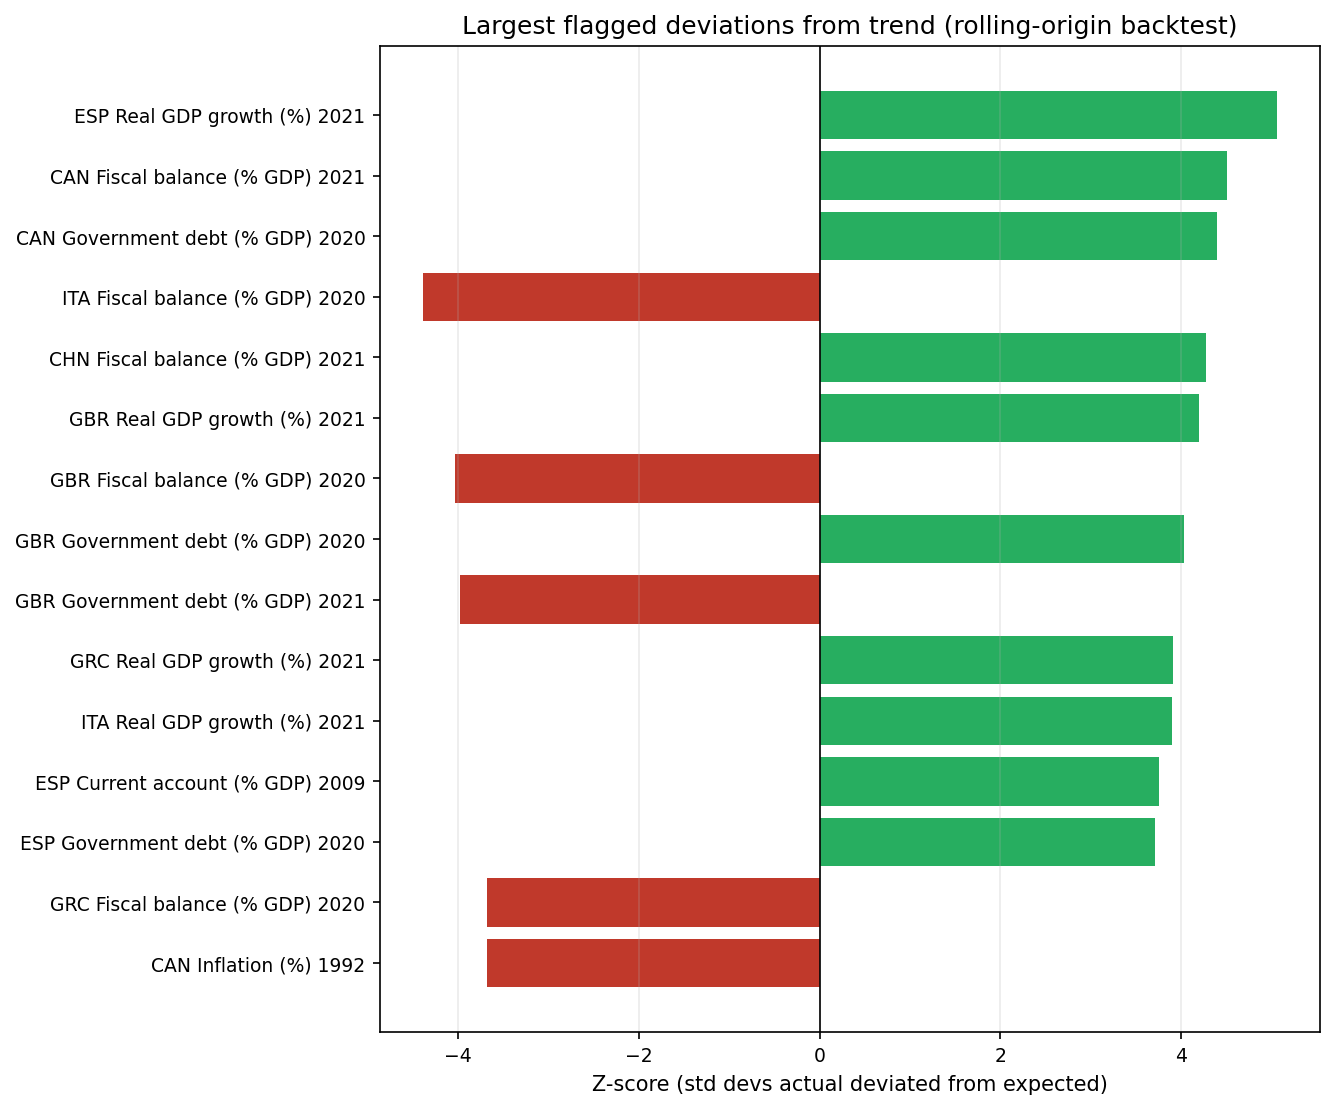
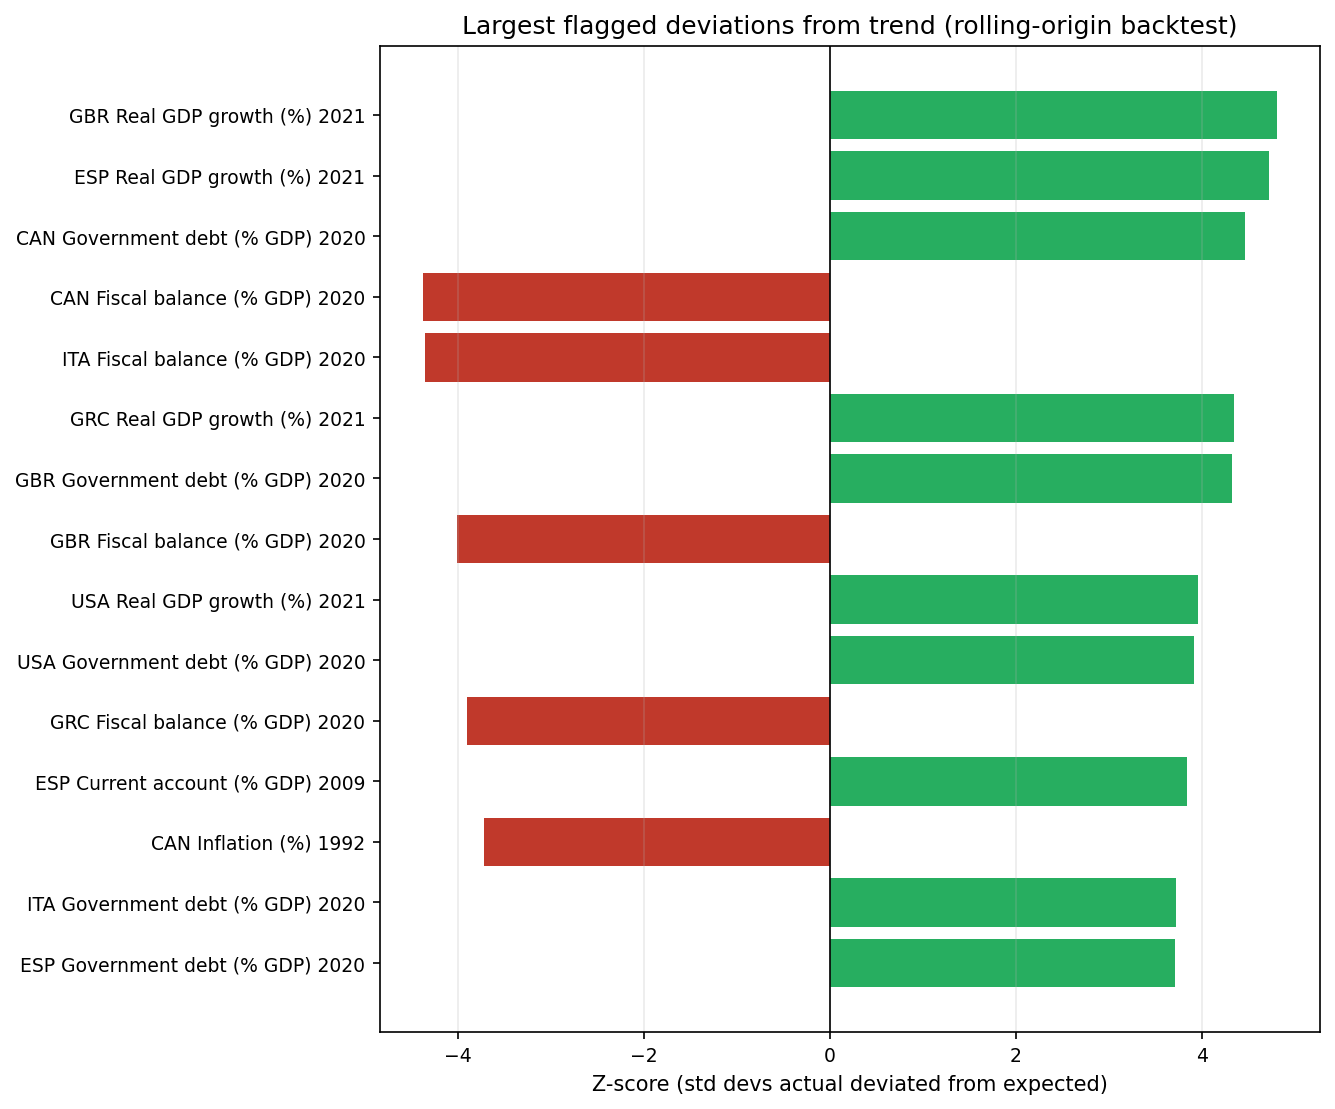
Add data-driven ARIMA order selection via AIC

diff --git a/src/anomaly_detection.py b/src/anomaly_detection.py
@@ -10,6 +10,11 @@ year's value, unchanged) - this answers the question every forecast should be
 able to answer: is the model actually adding value, or would a dead-simple
 guess do just as well?
 
+The ARIMA order is selected once per series (by AIC, via arima_utils.py),
+using only the initial training window - not the full series - so the order
+choice can't "see" the years it's about to be tested against. That avoids
+leaking future information into the backtest.
+
 Note: WEO data blends true historical actuals with the IMF's own forward
 projections, with no flag distinguishing the two. So a "flagged" year means
 "this diverged notably from a simple trend model" - which could reflect a real
@@ -24,6 +29,7 @@ import warnings
 import numpy as np
 import pandas as pd
 from statsmodels.tsa.arima.model import ARIMA
+from arima_utils import select_arima_order
 
 warnings.filterwarnings("ignore")
 
@@ -46,6 +52,11 @@ def one_step_residuals(series: pd.Series) -> pd.DataFrame:
     year t with both ARIMA and a naive (persistence) baseline, record both
     residuals. One row per testable year."""
     years = series.index.tolist()
+
+    # Select order once, from the initial window only - avoids picking an
+    # order based on data from years we're about to "forecast" in the loop.
+    order = select_arima_order(series.iloc[:MIN_HISTORY].values)
+
     rows = []
     for i in range(MIN_HISTORY, len(years)):
         train = series.iloc[:i]
@@ -55,12 +66,13 @@ def one_step_residuals(series: pd.Series) -> pd.DataFrame:
         naive_forecast = float(train.iloc[-1])  # "predict no change from last year"
 
         try:
-            fitted = ARIMA(train.values, order=(1, 1, 1)).fit()
+            fitted = ARIMA(train.values, order=order).fit()
             forecast = float(fitted.forecast(steps=1)[0])
             rows.append({"year": year, "actual": actual, "forecast": forecast,
                         "residual": actual - forecast,
                         "naive_forecast": naive_forecast,
-                        "naive_residual": actual - naive_forecast})
+                        "naive_residual": actual - naive_forecast,
+                        "arima_order": str(order)})
         except Exception:
             continue
     return pd.DataFrame(rows)
@@ -91,7 +103,7 @@ def run(input_path: str = INPUT_PATH, output_path: str = OUTPUT_PATH) -> pd.Data
     result = pd.concat(all_flags, ignore_index=True)
     result = result[["country", "indicator", "year", "actual", "forecast",
                      "residual", "naive_forecast", "naive_residual",
-                     "z_score", "flagged"]]
+                     "z_score", "flagged", "arima_order"]]
     result = result.sort_values(["country", "indicator", "year"])
     result.to_csv(output_path, index=False)
 
@@ -104,6 +116,12 @@ def run(input_path: str = INPUT_PATH, output_path: str = OUTPUT_PATH) -> pd.Data
     verdict = "beats" if arima_mae < naive_mae else "loses to"
     print(f"\nARIMA MAE: {arima_mae:.2f}  |  Naive baseline MAE: {naive_mae:.2f}  "
           f"-> ARIMA {verdict} the naive baseline overall")
+
+    orders_used = (result[["country", "indicator", "arima_order"]]
+                  .drop_duplicates()
+                  .sort_values(["country", "indicator"]))
+    print(f"\nSelected ARIMA orders (by AIC, {orders_used['arima_order'].nunique()} distinct orders used):")
+    print(orders_used.to_string(index=False))
 
     if n_flagged:
         top = result[result["flagged"]].reindex(

diff --git a/src/arima_utils.py b/src/arima_utils.py
@@ -1,0 +1,43 @@
+"""
+arima_utils.py
+Shared helper for forecast.py and anomaly_detection.py: instead of guessing
+ARIMA(1,1,1) for every series, tests a handful of reasonable candidate orders
+and picks whichever gets the lowest AIC (Akaike Information Criterion) - a
+standard statistic that rewards a model for fitting well while penalizing it
+for being needlessly complex. Lower AIC = better trade-off between fit and
+simplicity.
+
+This doesn't guarantee a better forecast (a well-chosen order can still lose
+to a naive baseline, if the underlying series is close to a random walk - see
+model_accuracy.py). What it does guarantee is that the order used is a
+data-driven choice per series, not a single guess applied everywhere.
+"""
+
+import warnings
+import numpy as np
+from statsmodels.tsa.arima.model import ARIMA
+
+warnings.filterwarnings("ignore")
+
+# Small, deliberately limited candidate set - enough to cover the common
+# cases (AR-only, MA-only, differenced/undifferenced, mixed) without being
+# so large that fitting every candidate for every series gets slow.
+CANDIDATE_ORDERS = [
+    (1, 0, 0), (0, 1, 0), (1, 1, 0), (0, 1, 1),
+    (1, 1, 1), (2, 1, 0), (2, 1, 1), (1, 1, 2),
+]
+
+
+def select_arima_order(values, candidates=None):
+    """Fit each candidate order, return the one with lowest AIC.
+    Falls back to (1,1,1) if every candidate fails to fit (e.g. too little data)."""
+    candidates = candidates or CANDIDATE_ORDERS
+    best_order, best_aic, found_any = (1, 1, 1), np.inf, False
+    for order in candidates:
+        try:
+            fitted = ARIMA(values, order=order).fit()
+            if fitted.aic < best_aic:
+                best_aic, best_order, found_any = fitted.aic, order, True
+        except Exception:
+            continue
+    return best_order if found_any else (1, 1, 1)

diff --git a/src/forecast.py b/src/forecast.py
@@ -15,6 +15,7 @@ import warnings
 import pandas as pd
 from statsmodels.tsa.arima.model import ARIMA
 from statsmodels.tsa.api import VAR
+from arima_utils import select_arima_order
 
 warnings.filterwarnings("ignore")  # statsmodels convergence warnings are noisy on short series
 
@@ -31,9 +32,10 @@ INDICATOR_COLS = [
 
 
 def forecast_arima(series: pd.Series, steps: int) -> list[float]:
-    """Fit a simple ARIMA(1,1,1) on one indicator's history and forecast ahead."""
-    model = ARIMA(series.values, order=(1, 1, 1))
-    fitted = model.fit()
+    """Pick the best-fitting ARIMA order for this series (by AIC), fit it,
+    and forecast ahead."""
+    order = select_arima_order(series.values)
+    fitted = ARIMA(series.values, order=order).fit()
     return list(fitted.forecast(steps=steps))
 
 
